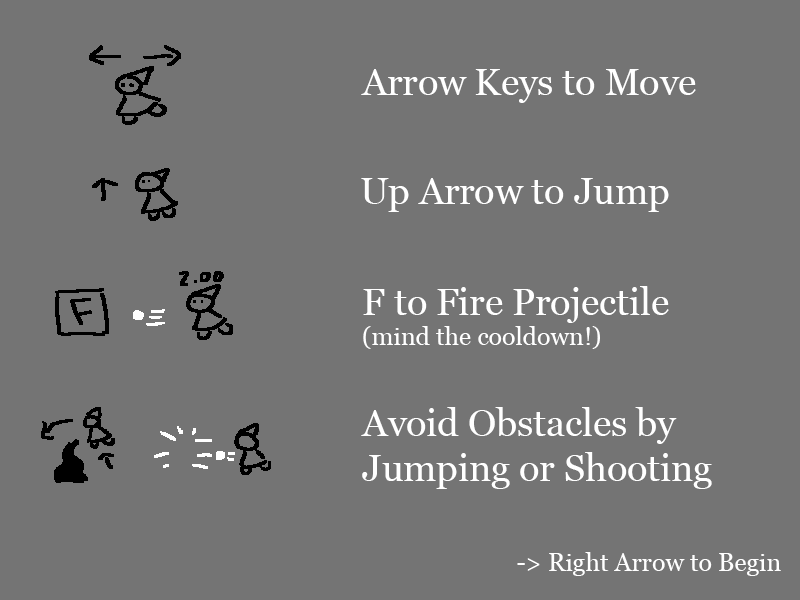
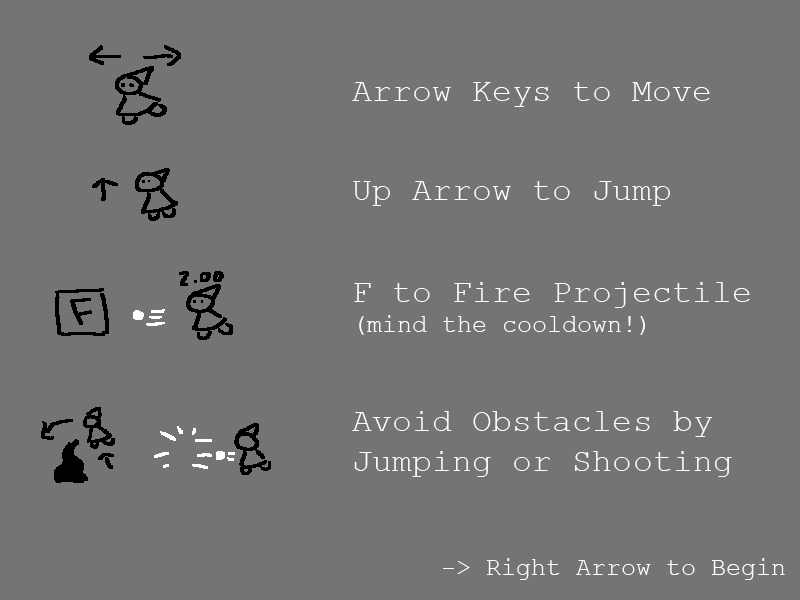
changed font on tutorial (georgia -> courier)

diff --git a/src/scenes/Menu.js b/src/scenes/Menu.js
@@ -24,7 +24,7 @@ class Menu extends Phaser.Scene {
         this.add.text(
             game.config.width / 2, 
             game.config.height / 2 - 128, 
-            'Hubris',
+            'HUBRIS',
             {
                 ...menuConfig,
                 fontStyle: 'bold'
